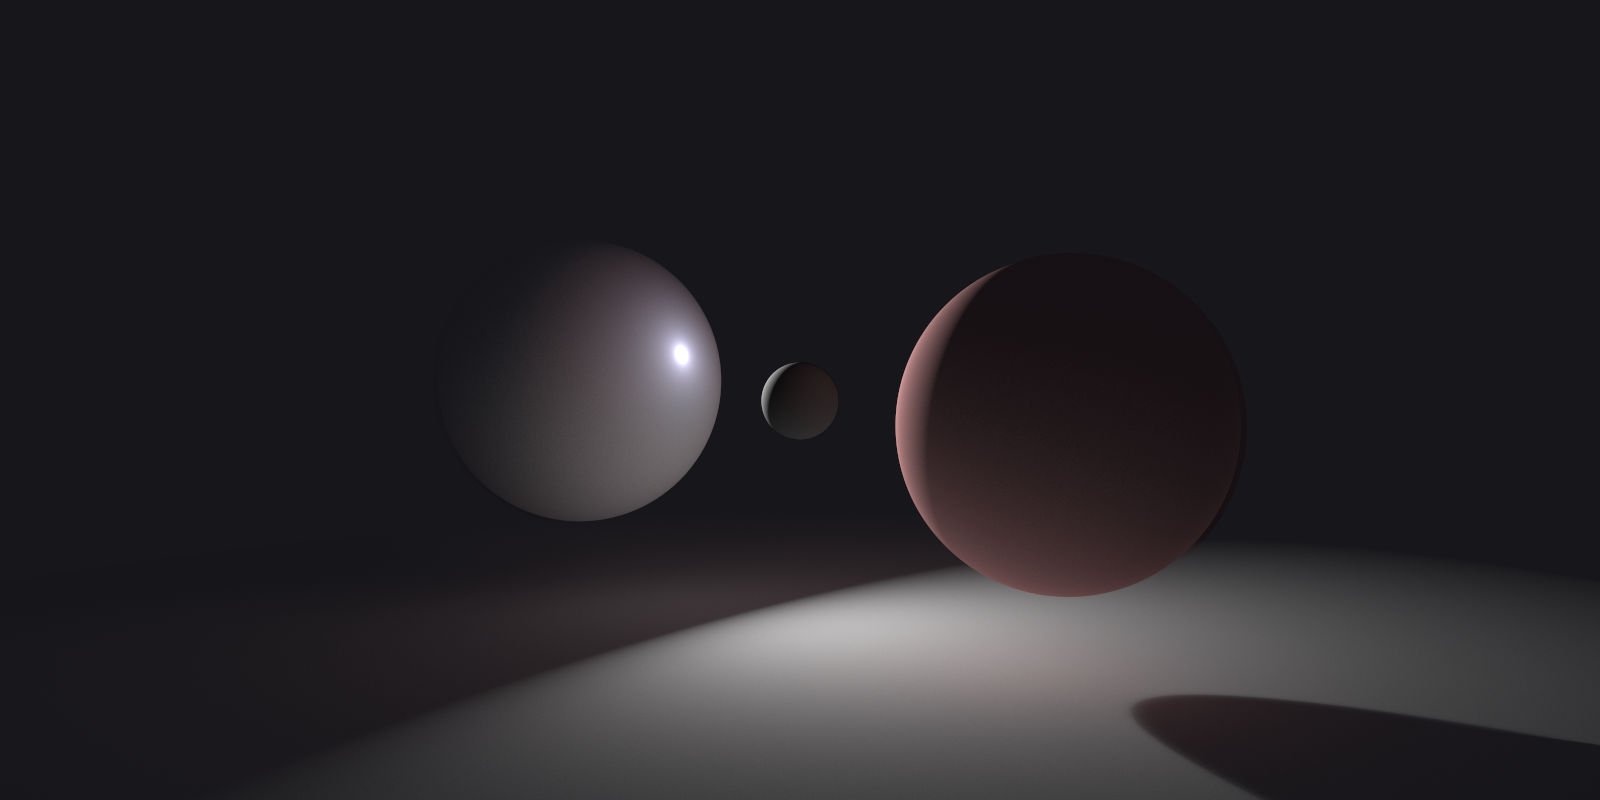
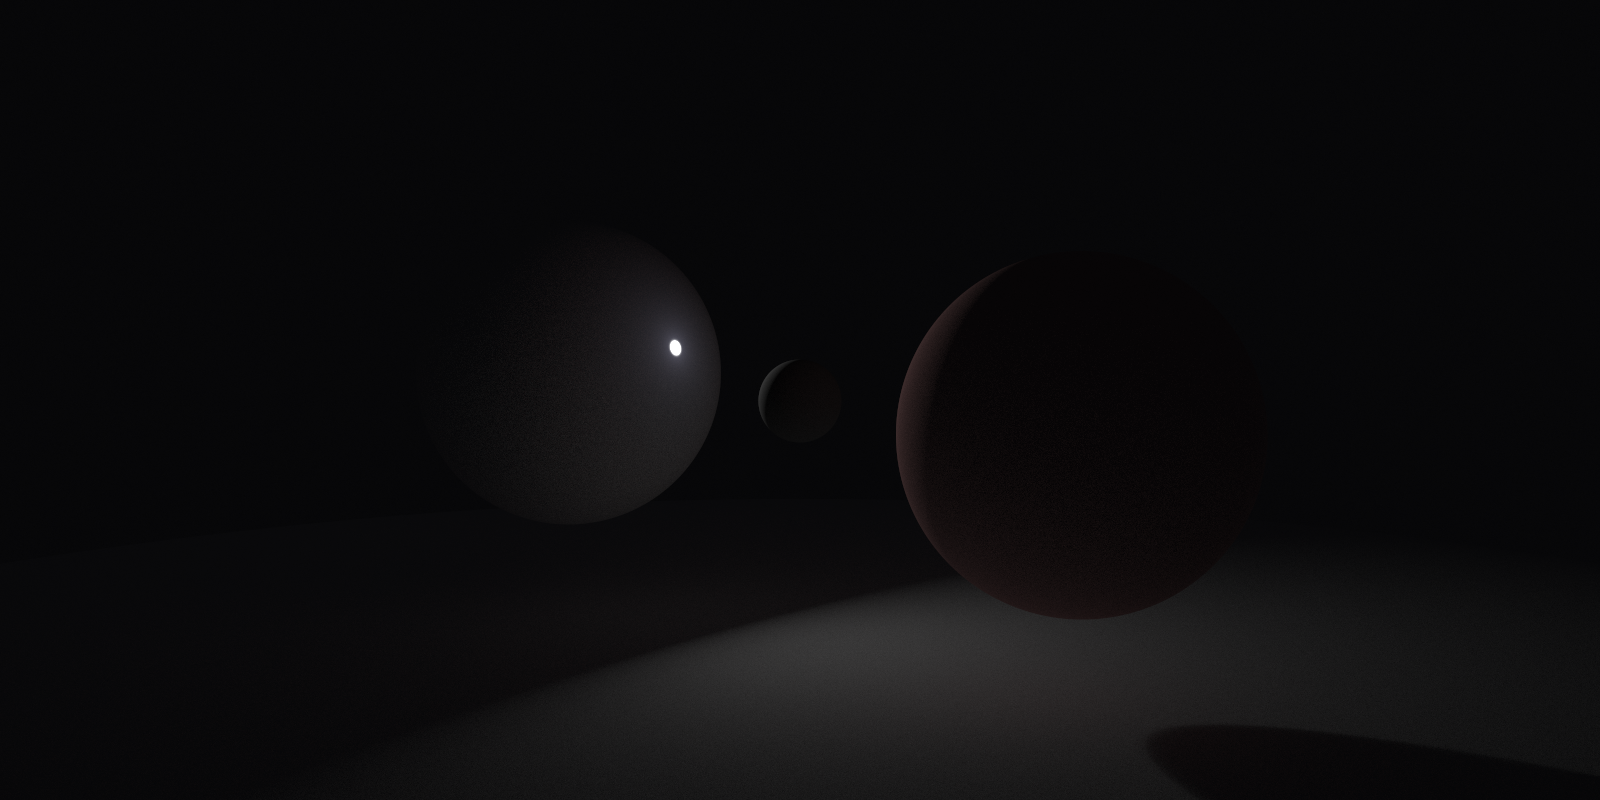
push

Changed region(s): [[0.1562, 0.3438, 1.0, 1.0], [0.2812, 0.3125, 0.5312, 0.6562]]

diff --git a/render.cpp b/render.cpp
@@ -93,6 +93,7 @@ handle(cam)
 	case(gamma) c.read_double();
 	case(bounces) c.read_int();
 	case(adjust) c.read_int();
+	case(chunk) c.read_int64_t();
 end;
 
 handle(noisy_vec)
@@ -179,40 +180,27 @@ int main(){
 	std::normal_distribution<double> d(0.0, 1.0);
 
 	bool use_global = global.mag() > 1e-18;
-	
+
 	for(int64_t x=0; x<camera.iter; ++x){
 		for(const light &l : lights){
 			if(l.granular > 1 && x%l.granular) continue;
 
-			ray r; l(r);
-
-			forward_trace(r, camera.bounces);
+			for(int64_t i=0; i<camera.chunk; ++i){
+				ray r; l(r), forward_trace(r, camera.bounces);
+			}
 		}
 
-		if(use_global){
-			// consider seeding random coords
-			/*
-			int64_t coord = x % (camera.w*camera.h),
-					x_coord = coord % camera.w,
-					y_coord = coord / camera.w;
-			*/
-
-			int x_coord = std::floor(rng::base() * camera.w),
-				y_coord = std::floor(rng::base() * camera.h);
+		if(use_global) for(int64_t i=0; i<camera.chunk; ++i){
+			double x_coord = rng::base()*camera.w-camera.w/2,
+				   y_coord = rng::base()*camera.h-camera.h/2;
 
 			ray r;
 
-			r.c = global;
-			r.p = camera.p;
-			r.d = camera.d.project({
-				(x_coord-camera.w/2 + rng::base()) / camera.c,
-				(camera.h/2-y_coord + rng::base()) / camera.c,
-				1,
-			}).norm();
+			r.c = global, r.p = camera.p;
+			r.d = camera.d.project({x_coord, 1-y_coord, camera.c}).norm();
 
 			if(backward_trace(r, camera.bounces))
-				camera.add(x_coord, y_coord, r.c);
-
+				camera.add(camera.w/2+std::floor(x_coord), camera.h/2+std::floor(y_coord), r.c);
 		}
 
 		if(camera.report && x%camera.report == 0)

diff --git a/util.cpp b/util.cpp
@@ -188,8 +188,8 @@ struct dir{
 	vec f, u, s;
 
 	void init(){
-		s = u.cross(f);
-		u = f.cross(s);
+		s = u.cross(f).norm();
+		u = f.cross(s).norm();
 	}
 
 	vec project(const vec &v){
@@ -225,8 +225,9 @@ struct cam{
 	unsigned char *image = nullptr;
 	
 	// settings
-	int64_t iter = 10000,
-			report = 0;
+	int64_t iter = 500,
+			report = 0,
+			chunk = 10000;
 	int bounces = 5;
 	double exposure = 1.0,
 		   gamma = 0.0;
@@ -261,7 +262,7 @@ struct cam{
 	// save_raw_image: in order to post-process brightness, etc
 	
 	void write(const char *iname, const char *rname, double progress){
-		double exp2 = iter * progress / w / h / exposure;
+		double exp2 = iter * chunk * progress / w / h / exposure;
 
 		auto bake = [&] (double v){
 			double energy = v/exp2;

diff --git a/README.md b/README.md
@@ -1,3 +1,3 @@
 ![rendered image](final-render.png)
 
-Rendered (singlethreaded) in 10m0.157s on AMD Ryzen 5 2600 (12) @ 3.400GHz
+Rendered in 10m0.157s on AMD Ryzen 5 2600 (12) @ 3.400GHz

diff --git a/template.md b/template.md
@@ -1,3 +1,3 @@
 ![rendered image](final-render.png)
 
-Rendered (singlethreaded) in TIME on CPU
+Rendered in TIME on CPU
